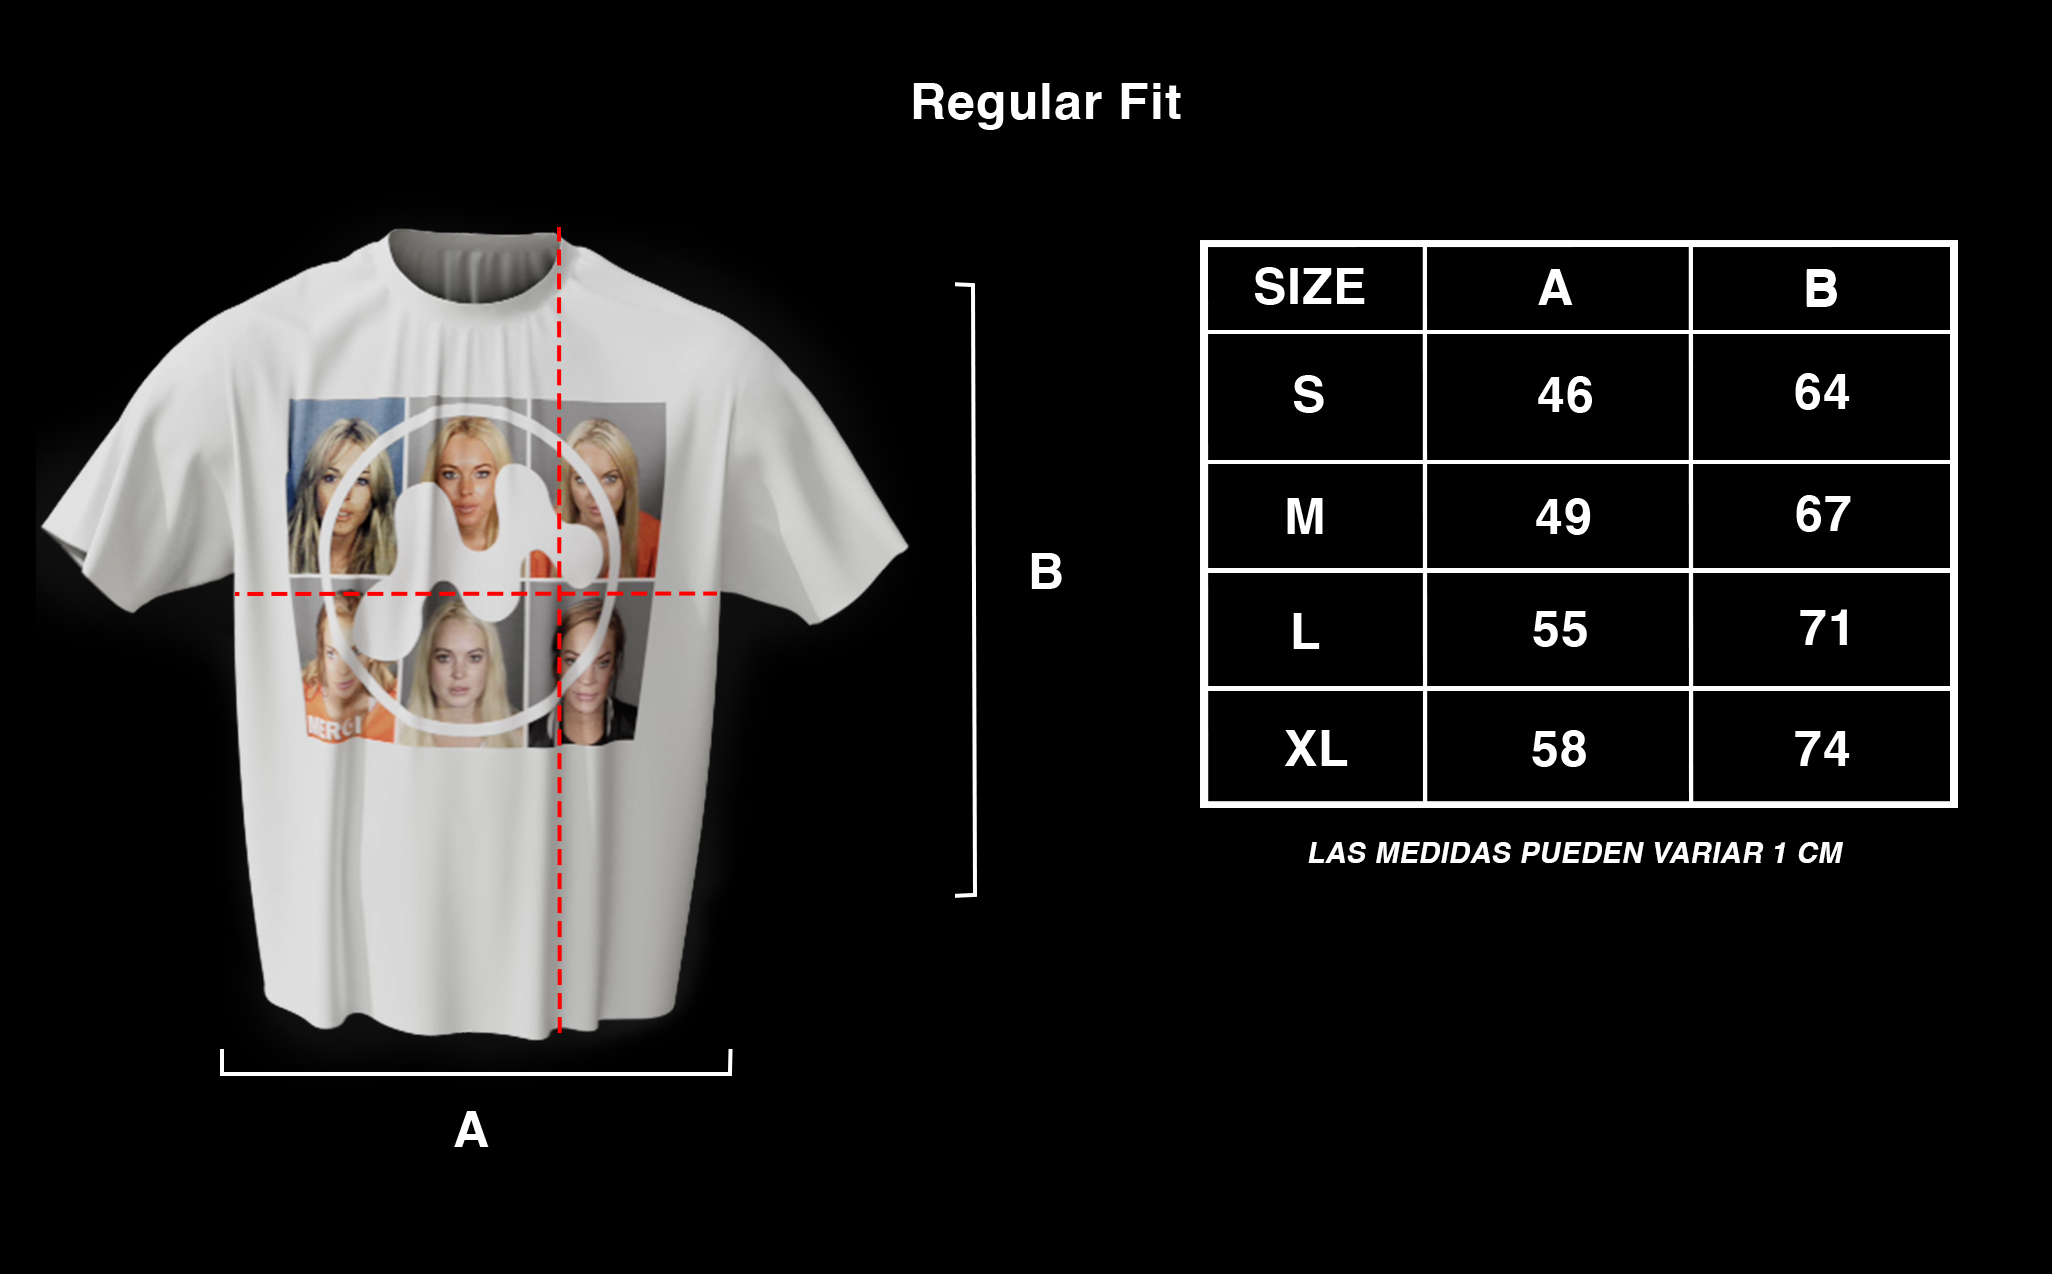
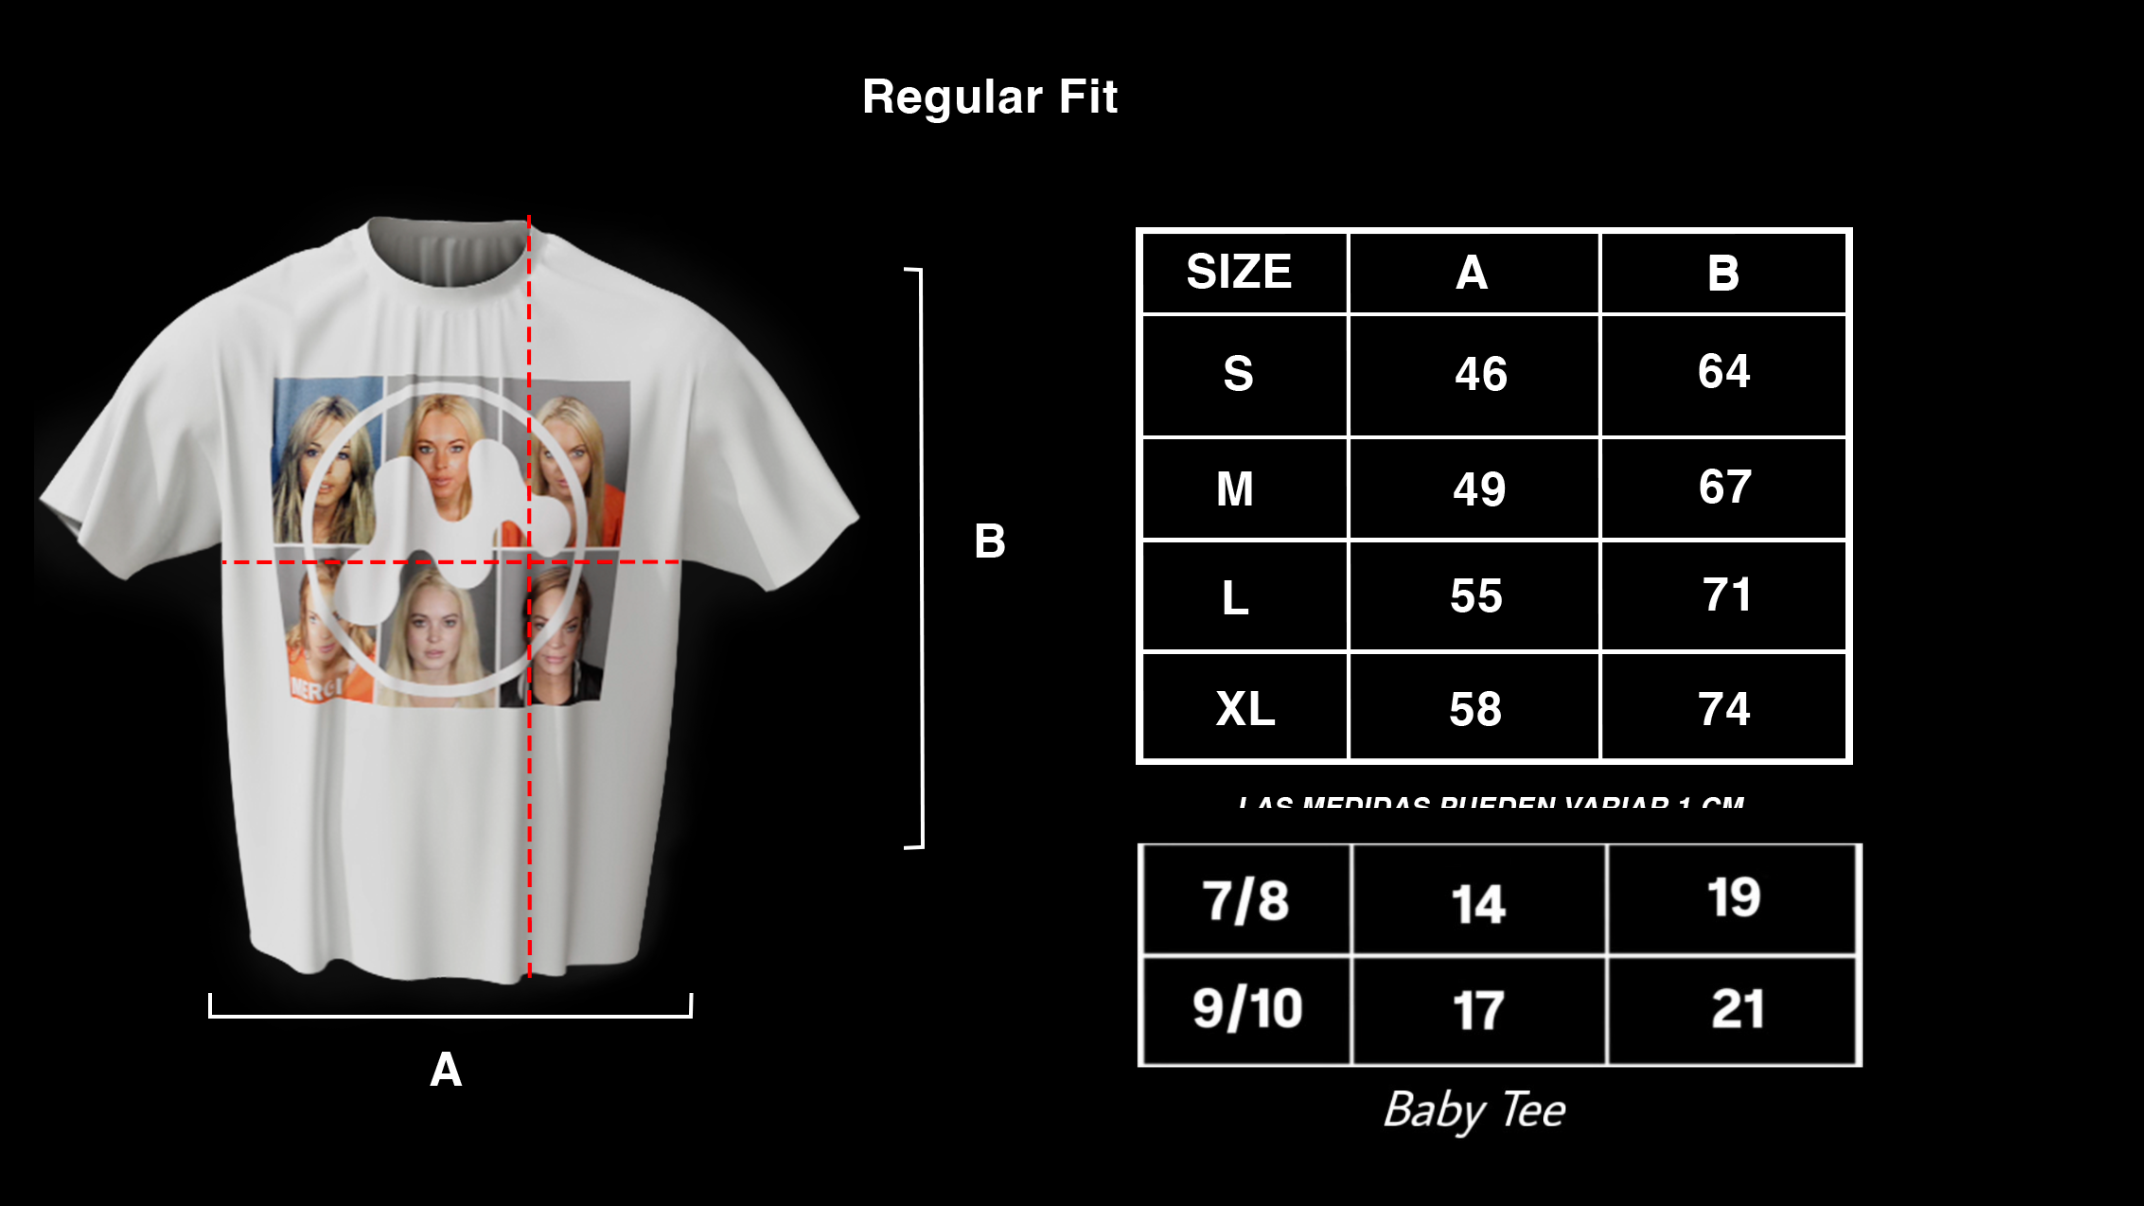
Actualizacion lindsay baby tee y juanki sold out

diff --git a/index.html b/index.html
@@ -175,7 +175,8 @@
                         price: '$26.990 CLP', 
                         main: 'freelohan_blanca1.gif', 
                         thumbnails: ['freelohan_blanca1.gif', 'freelohan_blanca_frente.png', 'freelohan_blanca_espalda.png', 'freelohan_blanca_tabla.png'],
-                        hasSize: true })">
+                        hasSize: true,
+                        sizes: ['S', 'M', 'L', 'baby tee 7/8', 'baby tee 9/10'] })">
                         </div>
                 <h4>$26.990 CLP</h4>
                 <button onclick="openMerchDetail({ 
@@ -183,7 +184,8 @@
                     price: '$26.990 CLP', 
                     main: 'freelohan_blanca1.gif', 
                     thumbnails: ['freelohan_blanca1.gif', 'freelohan_blanca_frente.png', 'freelohan_blanca_espalda.png', 'freelohan_blanca_tabla.png'],
-                    hasSize: true })">BUY</button>
+                    hasSize: true,
+                    sizes: ['S', 'M', 'L', 'baby tee 7/8', 'baby tee 9/10'] })">BUY</button>
             </div>
             
             <!-------------------------- FREE LOHAN BLACK TEE ----------------------->
@@ -199,7 +201,8 @@
                         price: '$26.990 CLP', 
                         main: 'freelohan_negra.gif', 
                         thumbnails: ['freelohan_negra.gif', 'freelohan_negra_frente.png', 'freelohan_negra_espalda.png', 'freelohan_negra_tabla.png'],
-                        hasSize: true })">
+                        hasSize: true,
+                        sizes: ['S', 'M', 'L', 'baby tee 7/8', 'baby tee 9/10'] })">
                         </div>
                 <h4>$26.990 CLP</h4>
                 <button onclick="openMerchDetail({ 
@@ -207,7 +210,8 @@
                     price: '$26.990 CLP', 
                     main: 'freelohan_negra.gif', 
                     thumbnails: ['freelohan_negra.gif', 'freelohan_negra_frente.png', 'freelohan_negra_espalda.png', 'freelohan_negra_tabla.png'],
-                    hasSize: true })">BUY</button>
+                    hasSize: true,
+                    sizes: ['S', 'M', 'L', 'baby tee 7/8', 'baby tee 9/10'] })">BUY</button>
             </div>
 
             <!-------------------------- MERCI POLO SHIRT -------------------------->
@@ -222,23 +226,23 @@
                         title: 'MERCI POLO SHIRT', 
                         price: '$32.990 CLP', 
                         main: 'merci_polo_shirt.gif', 
-                        thumbnails: ['merci_polo_shirt.gif', 'merci_polo_delante.png', 'merci_polo_atras.png'],
+                        thumbnails: ['merci_polo_shirt.gif', 'merci_polo_delante.png', 'merci_polo_atras.png', 'tabla_merci_polo.png'],
                         hasSize: true, 
-                        available: false})">
-                        <span class="sold-out-badge">SOON</span>
+                        available: true})">
+                        <!-- <span class="sold-out-badge">SOON</span> -->
                         </div>
                 <h4>$32.990 CLP</h4>
                 <button onclick="openMerchDetail({ 
                     title: 'MERCI POLO SHIRT', 
                     price: '$32.990 CLP', 
                     main: 'merci_polo_shirt.gif', 
-                    thumbnails: ['merci_polo_shirt.gif', 'merci_polo_delante.png', 'merci_polo_atras.png'],
+                    thumbnails: ['merci_polo_shirt.gif', 'merci_polo_delante.png', 'merci_polo_atras.png', 'tabla_merci_polo.png'],
                     hasSize: true })">BUY</button>
             </div>
 
           <!------------------------- ITEM MERCI X BBJUANKI ------------------------->
             <div class="merch-item">
-                <h3>MERCI X JUANKI</h3>
+                <h3>MERCI X JUANKI COLLAB</h3>
                 <div class="merch-image-wrapper">
                 <img 
                     class="merch-gif" 
@@ -246,7 +250,7 @@
                     alt="MERCI X BBJUANKI"
                     onclick="showBBJuankiCollection()">
                 </div>
-                <h4>VER COLECCIÓN</h4>
+                <h4>ITEMS</h4>
                 <button onclick="showBBJuankiCollection()">VIEW</button>
             </div>
           </div>
@@ -270,9 +274,9 @@
                         thumbnails: ['polera_swag_blanca1.gif', 'polera_blanca_frente.png', 'polera_blanca_atras.png', 'fa_white_tabla.jpg'],
                         hasSize: true,
                         sizes: ['S', 'M', 'L'],
-                        available: true,
+                        available: false,
                         fromBBJ: true })">
-                    <!-- <span class="sold-out-badge">SOLD OUT</span> -->
+                     <span class="sold-out-badge">SOLD OUT</span> 
                 </div>
                 <h4>$24.990 CLP</h4>
                 <button onclick="openMerchDetail({ 
@@ -282,7 +286,7 @@
                     thumbnails: ['polera_swag_blanca1.gif', 'polera_blanca_frente.png', 'polera_blanca_atras.png', 'fa_white_tabla.jpg'], 
                     hasSize: true,
                     sizes: ['S', 'M', 'L'],
-                    available: true,
+                    available: false,
                     fromBBJ: true })">BUY</button>
             </div>
 
@@ -301,9 +305,9 @@
                         thumbnails: ['polera_swag_negra1.gif', 'polera_negra_frente.png', 'polera_negra_atras.png', 'fa_black_tabla.jpg'],
                         hasSize: true,
                         sizes: ['S', 'M', 'L'],
-                        available: true,
+                        available: false,
                         fromBBJ: true })">
-                    <!-- <span class="sold-out-badge">SOLD OUT</span> -->
+                     <span class="sold-out-badge">SOLD OUT</span> 
                 </div>
                 <h4>$24.990 CLP</h4>
                 <button onclick="openMerchDetail({ 
@@ -313,7 +317,7 @@
                     thumbnails: ['polera_swag_negra1.gif', 'polera_negra_frente.png', 'polera_negra_atras.png', 'fa_black_tabla.jpg'], 
                     hasSize: true,
                     sizes: ['S', 'M', 'L'],
-                    available: true,
+                    available: false,
                     fromBBJ: true })">BUY</button>
             </div>
 
@@ -332,9 +336,9 @@
                         thumbnails: ['fa_blanca.gif', 'fa_blanca_frente.png', 'fa_blanca_espalda.png', 'fa_blanca_tabla.jpg'],
                         hasSize: true,
                         sizes: ['S', 'M', 'L', 'baby tee 7/8', 'baby tee 9/10'],
-                        available: true,
+                        available: false,
                         fromBBJ: true })">
-                    <!-- <span class="sold-out-badge">SOLD OUT</span> -->
+                     <span class="sold-out-badge">SOLD OUT</span> 
                 </div>
                 <h4>$24.990 CLP</h4>
                 <button onclick="openMerchDetail({ 
@@ -344,7 +348,7 @@
                     thumbnails: ['fa_blanca.gif', 'polera_negra_frente.png', 'polera_negra_atras.png', 'fa_black_tabla.jpg'], 
                     hasSize: true,
                     sizes: ['S', 'M', 'L', 'baby tee 7/8', 'baby tee 9/10'],
-                    available: true,
+                    available: false,
                     fromBBJ: true })">BUY</button>
             </div>
 
@@ -363,9 +367,9 @@
                         thumbnails: ['fa_negra.gif', 'fa_negra_frente.png', 'fa_negra_espalda.png', 'fa_negra_tabla.jpg'],
                         hasSize: true,
                         sizes: ['S', 'M', 'L', 'baby tee 7/8', 'baby tee 9/10'],
-                        available: true,
+                        available: false,
                         fromBBJ: true })">
-                    <!-- <span class="sold-out-badge">SOLD OUT</span> -->
+                     <span class="sold-out-badge">SOLD OUT</span> 
                 </div>
                 <h4>$24.990 CLP</h4>
                 <button onclick="openMerchDetail({ 
@@ -375,7 +379,7 @@
                     thumbnails: ['fa_negra.gif', 'fa_negra_frente.png', 'fa_negra_atras.png', 'fa_negra_tabla.jpg'], 
                     hasSize: true,
                     sizes: ['S', 'M', 'L', 'baby tee 7/8', 'baby tee 9/10'],
-                    available: true,
+                    available: false,
                     fromBBJ: true })">BUY</button>
             </div>
 
@@ -393,9 +397,9 @@
                         main: 'sticker_swag_blanco.gif', 
                         thumbnails: ['sticker_swag_blanco.gif', 'sticker_blanco_delante.png', 'sticker_blanco_atras.png'],
                         hasSize: false,
-                        available: true,
+                        available: false,
                         fromBBJ: true })">
-                   <!-- <span class="sold-out-badge">SOLD OUT</span> -->
+                    <span class="sold-out-badge">SOLD OUT</span> 
                 </div>
                 <h4>$2.000 CLP</h4>
                 <button onclick="openMerchDetail({ 
@@ -404,7 +408,7 @@
                     main: 'sticker_swag_blanco.gif', 
                     thumbnails: ['sticker_swag_blanco.gif', 'sticker_blanco_delante.png', 'sticker_blanco_atras.png'],
                     hasSize: false,
-                    available: true,
+                    available: false,
                     fromBBJ: true })">BUY</button>
             </div>
 
@@ -422,9 +426,9 @@
                         main: 'sticker_swag_negro.gif', 
                         thumbnails: ['sticker_swag_negro.gif', 'sticker_negro_delante.png', 'sticker_negro_atras.png'],
                         hasSize: false,
-                        available: true,
+                        available: false,
                         fromBBJ: true })">
-                   <!-- <span class="sold-out-badge">SOLD OUT</span> -->
+                    <span class="sold-out-badge">SOLD OUT</span> 
                 </div>
                 <h4>$2.000 CLP</h4>
                 <button onclick="openMerchDetail({ 
@@ -433,7 +437,7 @@
                     main: 'sticker_swag_negro.gif', 
                     thumbnails: ['sticker_swag_negro.gif', 'sticker_negro_delante.png', 'sticker_negro_atras.png'],
                     hasSize: false,
-                    available: true,
+                    available: false,
                     fromBBJ: true })">BUY</button>
             </div>
 
@@ -451,9 +455,9 @@
                         main: 'CD.gif', 
                         thumbnails: ['CD.gif', 'CD_adelante.png', 'CD_atras.png'],
                         hasSize: false,
-                        available: true,
+                        available: false,
                         fromBBJ: true })">
-                   <!-- <span class="sold-out-badge">SOLD OUT</span> -->
+                    <span class="sold-out-badge">SOLD OUT</span>
                 </div>
                 <h4>$15.000 CLP</h4>
                 <button onclick="openMerchDetail({ 
@@ -462,7 +466,7 @@
                     main: 'CD.gif', 
                     thumbnails: ['CD.gif', 'CD_adelante.png', 'CD_atras.png'],
                     hasSize: false,
-                    available: true,
+                    available: false,
                     fromBBJ: true })">BUY</button>
             </div>
         </div>

diff --git a/script2.js b/script2.js
@@ -883,13 +883,17 @@ function getShopifyProductID(title, size) {
     "FREE LOHAN WHITE TEE": {
       S: "46381412647165",
       M: "46381412679933",
-      L: "46381412712701"
+      L: "46381412712701",
+      "baby tee 7/8": "46914291368189",
+      "baby tee 9/10": "46914291400957"
     },
 
     "FREE LOHAN BLACK TEE": {
       S: "46381471990013",
       M: "46381472022781",
-      L: "46381472055549"
+      L: "46381472055549",
+      "baby tee 7/8": "46914290876669",
+      "baby tee 9/10": "46914290909437"
     },
 
     "MERCI POLO SHIRT": {
@@ -1096,12 +1100,9 @@ const policies = {
     content: `
       <p>• Tienes un plazo de 10 días hábiles a partir de la fecha de recepción del producto para hacer válido el cambio, 
       ya sea por talla u otra prenda, siempre y cuando esté sin uso, con su respectiva etiqueta.</p>
-      <br>
       <p>• Todas las compras desde su recepción tienen 2 meses de garantía presentando fallas de fabrica.</p>
-      <br>
       <p>• Tienes la opción de no pagar el envío de tu cambio y realizarlo de manera presencial en nuestra oficina de Santiago (Tienda Archived), previa coordinación por mensajes. 
       Puedes comunicarte a través de nuestra red social instagram o via mail merci.creativecollect@gmail.com</p>
-      <br>
       <p>• No realizamos reembolsos de dinero a menos que presente falla de fábrica y esté dentro del plazo legal 2 meses. 
       Este reembolso demora hasta 10 días hábiles en efectuarse desde que se devuelve el producto.</p>
     `
@@ -1115,6 +1116,7 @@ function showPolicy(type) {
   const merchDetail = document.getElementById("merchDetail");
   const policyTitle = document.getElementById("policyTitle");
   const policyText = document.getElementById("policyText");
+  const footer = document.querySelector(".merch-footer");
   
   policyTitle.textContent = policies[type].title;
   policyText.innerHTML = policies[type].content;
@@ -1123,19 +1125,22 @@ function showPolicy(type) {
   merchListBBJ.style.display = "none";
   merchDetail.style.display = "none";
   policyContainer.style.display = "flex";
-
-    // Reiniciar scroll
-   policyContainer.scrollTop = 0;
+  
+  // Ocultar footer y reiniciar scroll
+  if (footer) footer.style.display = "none";
+  policyContainer.scrollTop = 0;
 }
 
 function closePolicyView() {
   const policyContainer = document.getElementById("merchPolicy");
   const merchList = document.getElementById("merchList");
+  const footer = document.querySelector(".merch-footer");
   
   policyContainer.style.display = "none";
   merchList.style.display = "flex";
   
-  window.scrollTo(0, 0);
+  // Mostrar footer nuevamente
+  if (footer) footer.style.display = "flex";
 }
 
 function showPolicyBBJ(type) {
@@ -1144,6 +1149,7 @@ function showPolicyBBJ(type) {
   const merchDetail = document.getElementById("merchDetailBBJuanki");
   const policyTitle = document.getElementById("policyTitle");
   const policyText = document.getElementById("policyText");
+  const footer = document.querySelector(".merch-footer");
   
   policyTitle.textContent = policies[type].title;
   policyText.innerHTML = policies[type].content;
@@ -1151,21 +1157,22 @@ function showPolicyBBJ(type) {
   merchList.style.display = "none";
   merchDetail.style.display = "none";
   policyContainer.style.display = "flex";
-
-  // Reiniciar scroll
-policyContainer.scrollTop = 0;
-
+  
+  // Ocultar footer y reiniciar scroll
+  if (footer) footer.style.display = "none";
+  policyContainer.scrollTop = 0;
 }
 
 function closePolicyViewBBJ() {
   const policyContainer = document.getElementById("merchPolicy");
   const merchList = document.getElementById("merchListBBJuanki");
+  const footer = document.querySelector(".merch-footer");
   
   policyContainer.style.display = "none";
   merchList.style.display = "flex";
-
-  // Opcional: reiniciar scroll al cerrar también
-  window.scrollTo(0, 0);
+  
+  // Mostrar footer nuevamente
+  if (footer) footer.style.display = "flex";
 }
 
 //===========================================================================================//

diff --git a/styles.css b/styles.css
@@ -1563,7 +1563,8 @@ width: 700px;
   .merch-main-view img[src*="fa_white_tabla.jpg"],
   .merch-main-view img[src*="fa_blanca_tabla.jpg"],
   .merch-main-view img[src*="fa_negra_tabla.jpg"],
-  .merch-main-view img[src*="fa_black_tabla.jpg"] {
+  .merch-main-view img[src*="fa_black_tabla.jpg"],
+  .merch-main-view img[src*="tabla_merci_polo.png"] {
     width: 500px;
     height: auto;
     max-width: none;
@@ -1829,7 +1830,7 @@ width: 700px;
 .merch-policy-container {
   display: flex;
   flex-direction: column;
-  padding: 80px 40px 40px 40px;
+  padding: 40px 40px 40px 40px;
   color: white;
   height: 100%;
   overflow-y: auto;
@@ -2419,7 +2420,6 @@ ul.messenger-style img {
   padding: 10px;
   font-size: 12px;
   z-index: 11;
-  margin-top: auto; /* Esto ya lo tienes, perfecto */
 }
 
 
@@ -2438,12 +2438,13 @@ ul.messenger-style img {
 .merch-policy-container {
   display: flex;
   flex-direction: column;
-  padding: 80px 40px 100px 40px;
-  color: white;
+  padding: 40px 40px 100px 40px;
+  color: rgb(255, 255, 255);
   height: 100%;
   overflow-y: auto;
   position: fixed;
 }
+
 
 
 .policy-content {
@@ -2470,8 +2471,8 @@ ul.messenger-style img {
 
   #back-icon-policy {
     position: absolute;
-    top: 45px;
-    left: 10px;
+    top: 10px;
+    left: 1px;
     cursor: pointer;
     z-index: 10;
     transition: transform 0.2s ease;
@@ -2624,7 +2625,8 @@ ul.messenger-style img {
   .merch-main-view img[src*="fa_white_tabla.jpg"],
   .merch-main-view img[src*="fa_black_tabla.jpg"],
   .merch-main-view img[src*="fa_blanca_tabla.jpg"],
-  .merch-main-view img[src*="fa_negra_tabla.jpg"]{
+  .merch-main-view img[src*="fa_negra_tabla.jpg"],
+  .merch-main-view img[src*="tabla_merci_polo.png"]{
     width: 73vw;
     height: auto;
     max-width: none;
